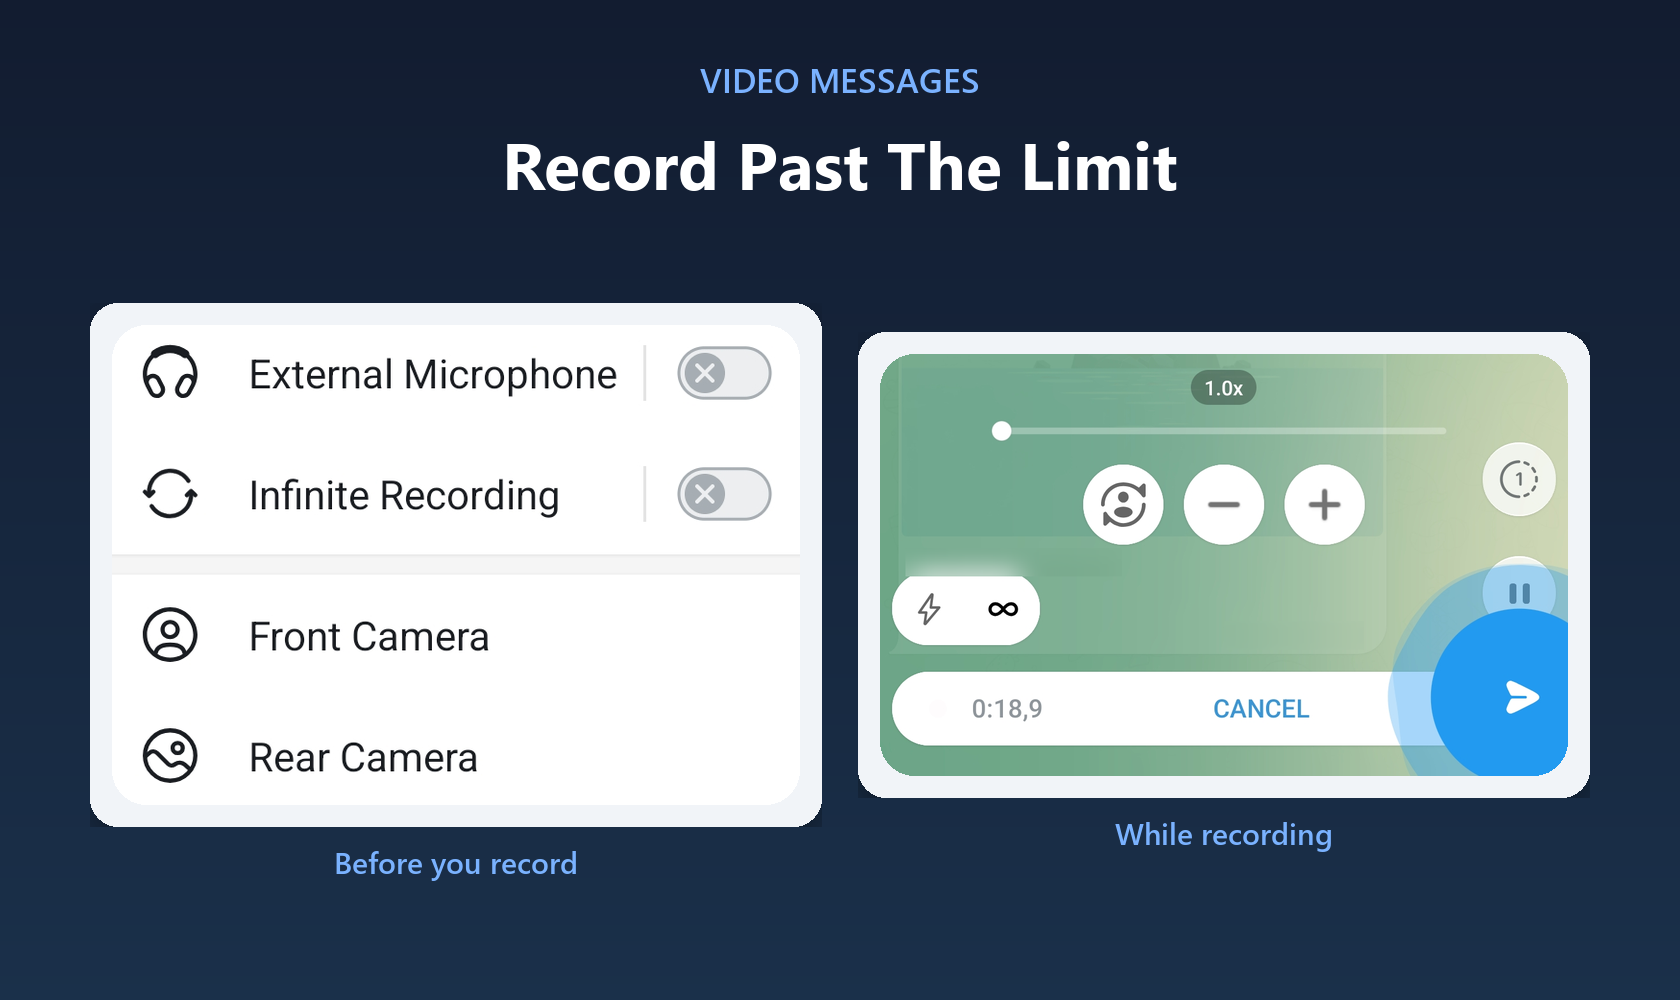
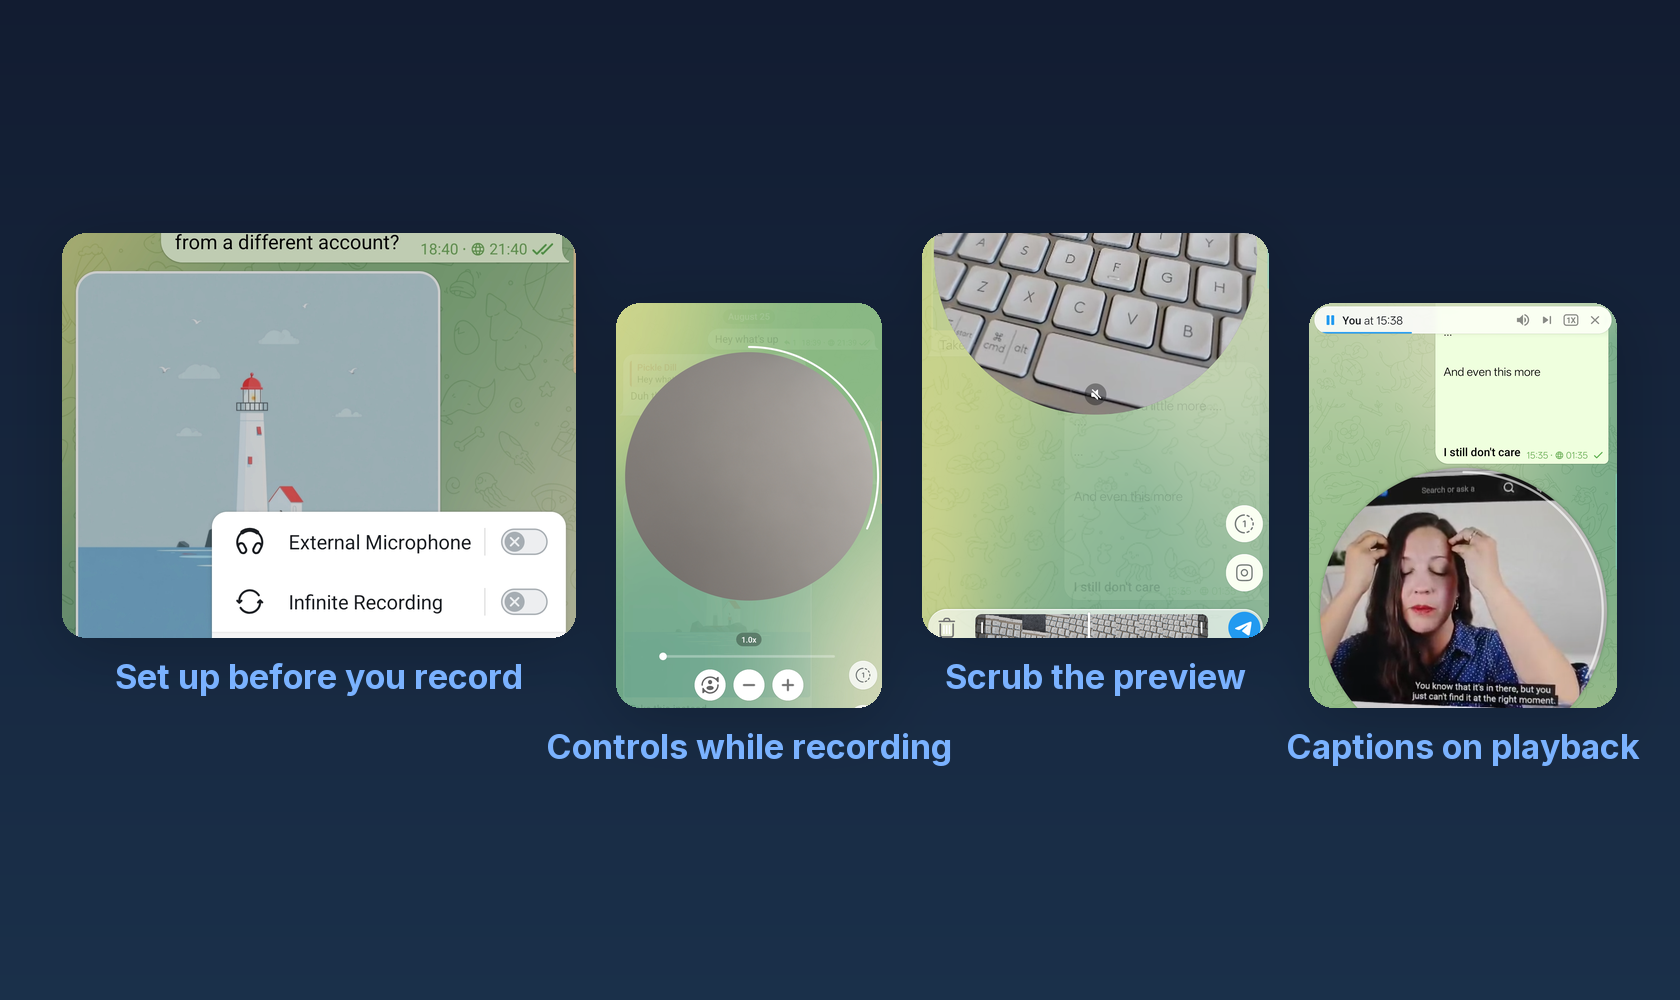
replace README highlights table with image-wall stack #docs
Rebuilds hero.png from fresh time-zone screenshots, adds the new chat-privacy.png wall, rebuilds composer.png and video-messages.png through the compositor instead of hand-made images, and replaces the HTML table (whose panels had three incompatible aspect ratios) with a plain full-width image stack. Bumps README.md's protected-paths.tsv pin to match.

diff --git a/README.md b/README.md
@@ -8,43 +8,37 @@ This README covers the highlights. The full list, with what each one does, is in
 
 ## Highlights
 
-<table>
-<tr>
-<td colspan="2" valign="top">
-<strong>Time zones:</strong> Set a time zone on any chat or group and see their local time right in the header. Tap it to line up a moment across both zones and drop it straight into your message.
+**Time zones:** Set a time zone on any chat or group and see their local time right in the header. Tap it to line up a moment across both zones and drop it straight into your message.
+
 <p align="center">
-<img width="560" src="docs/images/hero.png" alt="Four views of Dazegram's time zone tools: comparing hours side by side on an hour grid, picking a time range, scheduling a message for the other person's time, and the converted time showing up in the chat header and next to a message.">
+<img width="100%" src="docs/images/hero.png" alt="Four views of Dazegram's time zone tools: the hour-comparison grid with the message-format token chips, the range picker with both accounts' hours, the schedule-message sheet split between your time and theirs, and the chat header clock pill next to messages showing dual local times.">
 </p>
-</td>
-</tr>
-<tr>
-<td valign="top" width="50%">
-<strong>Composer:</strong> Reorder most of the composer's row: emoji, attachments, formatting, schedule, into the layout you actually reach for.
+
+**Composer:** Reorder most of the composer's row: emoji, attachments, formatting, schedule, into the layout you actually reach for.
+
 <p align="center">
-<img width="200" src="docs/images/composer.png" alt="The composer toolbar settings screen, showing size and spacing sliders and the buttons you can drag into the toolbar.">
+<img width="100%" src="docs/images/composer.png" alt="Four views of Dazegram's composer toolbar: the drag list for reordering leading and scrolling buttons, the toolbar size and icon spacing sliders, the toolbar live in a chat with text selected, and the message field expanded to full screen.">
 </p>
-</td>
-<td valign="top" width="50%">
-<strong>Privacy profiles:</strong> Save named auto-lock timeouts and switch between them with a long-press, instead of digging back into settings every time you need a longer or shorter leash.
+
+**Privacy profiles:** Save named auto-lock timeouts and switch between them with a long-press, instead of digging back into settings every time you need a longer or shorter leash.
+
 <p align="center">
-<img width="300" src="docs/images/privacy-profiles.png" alt="Two views of Dazegram's privacy profiles: the passcode settings page listing the Safe and Unsafe auto-lock profiles with their timeouts, and the long-press quick-switch menu for jumping between them.">
+<img width="100%" src="docs/images/privacy-profiles.png" alt="Two views of Dazegram's privacy profiles: the passcode settings page listing the Safe and Unsafe auto-lock profiles with their timeouts, and the long-press quick-switch menu for jumping between them.">
 </p>
-</td>
-</tr>
-<tr>
-<td valign="top" width="50%">
-<strong>Video messages:</strong> Record round video messages past Telegram's limit, with a warning buzz before it cuts and captions, once you've set up transcription.
+
+**Chat privacy:** Hide a chat's last message from the list, or lock the whole chat behind your passcode — your call, per chat. Turn on disguise notifications and incoming alerts show a cover instead of the real sender and message.
+
 <p align="center">
-<img width="300" src="docs/images/video-messages.png" alt="Two views of Dazegram's video messages: the pre-record options popup with External Microphone and Infinite Recording toggles, and the redesigned in-recording controls with the zoom slider, camera flip, and send.">
+<img width="100%" src="docs/images/chat-privacy.png" alt="Three views of Dazegram's chat privacy: a hidden chat's placeholder text sitting beside a normal chat in the list, the chat privacy sheet with hide-last-message and require-password both switched on, and a disguised system notification showing a generic sync alert instead of the real sender and message.">
 </p>
-</td>
-<td valign="top" width="50%">
-<strong>Everyday reliability:</strong> The scheduled-message composer and message editing keep what you typed if you back out by accident, lock the app, or minimize it. Normal composing already autosaves, so nothing changes there.
-<br><br>
-<strong>Private chats:</strong> Hide a chat's last message from the list, or lock the whole chat behind your passcode (which hides it too): your call, per chat.
-</td>
-</tr>
-</table>
+
+**Video messages:** Record round video messages past Telegram's limit, with a warning buzz before it cuts and captions, once you've set up transcription.
+
+<p align="center">
+<img width="100%" src="docs/images/video-messages.png" alt="Four views of Dazegram's video messages: the pre-record options popup with External Microphone and Infinite Recording toggles, the in-recording controls with the zoom slider and camera flip, the recording preview with the scrub timeline, and captions burned into video playback.">
+</p>
+
+**Everyday reliability:** The scheduled-message composer and message editing keep what you typed if you back out by accident, lock the app, or minimize it. Normal composing already autosaves, so nothing changes there.
 
 There's more: [FEATURES.md](FEATURES.md) has all of it, with what each one does and where to find it in the app.
 
